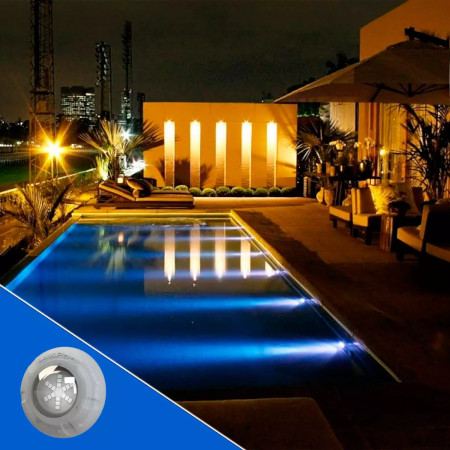
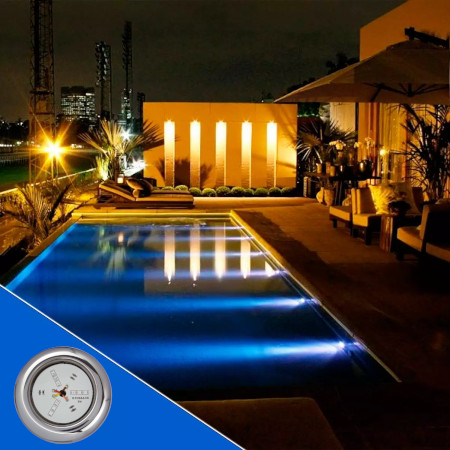
led adjusted

Changed region(s): [[0.0311, 0.7467, 0.2489, 0.9956]]

diff --git a/products/led.html b/products/led.html
@@ -105,9 +105,9 @@
     <section class="father-item">
       <div class="content-item">
         <div class="item">
-          <img
-            src="../elements-resized/produtos/refletor-removebg-preview.png"
-            alt="Flange"
+          <img class="led-img"
+            src="../elements-resized/new-itens/led/led-1.png"
+            alt="Led"
           />
         </div>
         <div class="description">

diff --git a/products/style-details.css b/products/style-details.css
@@ -136,7 +136,7 @@ header main {
   align-items: center;
   justify-content: center;
 }
-.cat2{
+.cat2 {
   padding-top: 30px;
 }
 
@@ -608,7 +608,10 @@ iframe {
   width: 82vw;
   max-width: 500px;
 }
-.flangepc{
+.flangepc {
   height: 300px !important;
   width: 300px !important;
+}
+.led-img {
+  width: 300px;
 }

diff --git a/index.html b/index.html
@@ -163,7 +163,7 @@
         <div class="box-pdc">
           <img
             class="led"
-            src="elements-resized/produtos/refletor-removebg-preview.png"
+            src="elements-resized/new-itens/led/led-1.png"
             alt="Refletores"
           />
           <h2>Refletores LED</h2>

diff --git a/style.css b/style.css
@@ -763,7 +763,7 @@ header main {
     padding: 40px 20px;
   }
   .led {
-    width: 170px !important;
+    width: 141px !important;
   }
   .content-footer {
     width: 70%;
